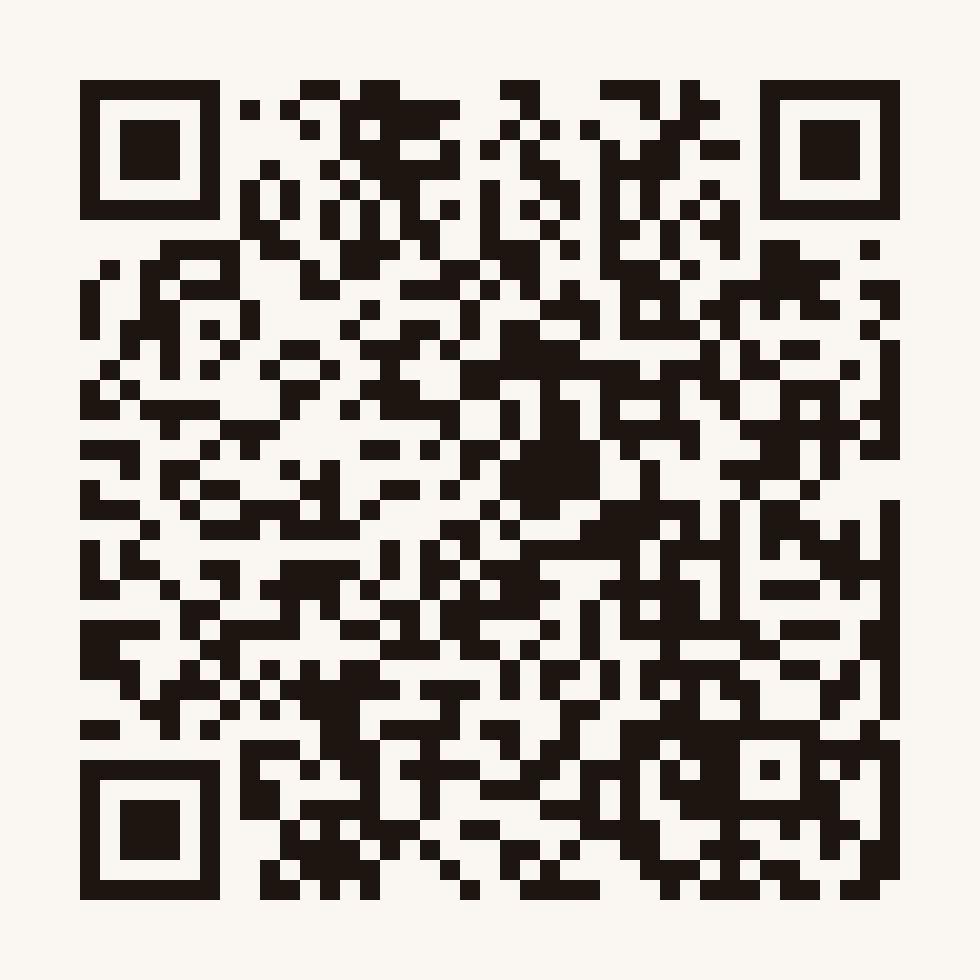
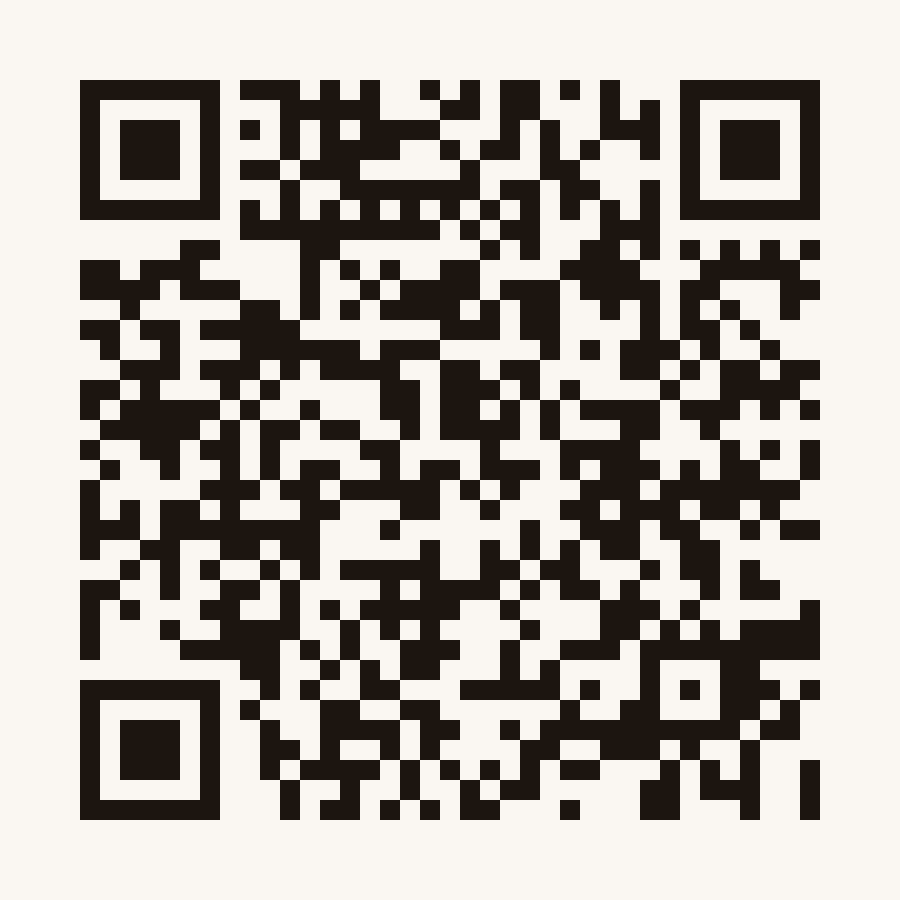
fix: standardize partner qr destinations

diff --git a/scripts/generate-qr.py b/scripts/generate-qr.py
@@ -29,7 +29,7 @@ import qrcode
 from qrcode.constants import ERROR_CORRECT_H
 
 SLUG_RE = re.compile(r"^[a-z0-9][a-z0-9-]{2,40}$")
-BASE_URL = "https://localis.guide/?p={slug}"
+BASE_URL = "https://localis.guide/p/{slug}"
 INK = "#1C1510"
 CREAM = "#FAF7F2"
 OUT_DIR = Path(__file__).resolve().parent.parent / "marketing" / "qr-codes"
@@ -40,6 +40,7 @@ def main() -> int:
     ap.add_argument("slug", help="Partner slug, e.g. 'london-bar'")
     ap.add_argument("--size", type=int, default=20, help="Box pixel size (default 20 → ~900px image)")
     ap.add_argument("--border", type=int, default=4, help="Quiet zone modules (default 4)")
+    ap.add_argument("--format", choices=("png", "svg"), default="png", help="Output format (default png)")
     args = ap.parse_args()
 
     slug = args.slug.strip().lower()
@@ -51,12 +52,20 @@ def main() -> int:
     qr = qrcode.QRCode(error_correction=ERROR_CORRECT_H, box_size=args.size, border=args.border)
     qr.add_data(url)
     qr.make(fit=True)
-    img = qr.make_image(fill_color=INK, back_color=CREAM)
+    if args.format == "svg":
+        from qrcode.image.svg import SvgPathImage
+
+        img = qr.make_image(image_factory=SvgPathImage, fill_color=INK, back_color=CREAM)
+    else:
+        img = qr.make_image(fill_color=INK, back_color=CREAM)
 
     OUT_DIR.mkdir(parents=True, exist_ok=True)
-    out = OUT_DIR / f"{slug}.png"
+    out = OUT_DIR / f"{slug}.{args.format}"
     img.save(out)
-    print(f"Saved: {out} ({img.size[0]}x{img.size[1]} px) -> {url}")
+    if hasattr(img, "size"):
+        print(f"Saved: {out} ({img.size[0]}x{img.size[1]} px) -> {url}")
+    else:
+        print(f"Saved: {out} ({args.format}) -> {url}")
     return 0
 
 

diff --git a/marketing/partners-registry.md b/marketing/partners-registry.md
@@ -1,11 +1,11 @@
-# Localis · Partner QR Registry
+# Localis - Partner QR Registry
 
-Master ledger dei partner referral. Aggiornare manualmente. Numeri da GA4 (custom dimension `partner_id`) + Stripe (metadata `partner_id`).
+Master ledger dei partner referral. Aggiornare manualmente. Numeri da GA4/PostHog con parametro `partner_id` + Stripe con metadata `partner_id`.
 
-**Pattern URL QR:** `https://localis.guide/?p=<slug>`
-**Vincoli slug:** lowercase, 3-41 caratteri, regex `[a-z0-9][a-z0-9-]{2,40}` — no underscore, no spazi, no maiuscole.
-**Cookie referral:** 30 giorni (chi clicca oggi, attribuito anche se acquista fra 3 settimane).
-**Revenue share:** 25% del netto su ogni acquisto attribuito (impostato in `src/pages/api/checkout.ts`).
+**Pattern URL QR:** `https://localis.guide/p/<slug>`
+**Vincoli slug:** lowercase, 3-41 caratteri, regex `[a-z0-9][a-z0-9-]{2,40}`; no underscore, no spazi, no maiuscole.
+**Cookie referral:** 30 giorni.
+**Revenue share:** 25% del netto su ogni acquisto attribuito, impostato in `src/pages/api/checkout.ts`.
 
 ---
 
@@ -13,8 +13,11 @@ Master ledger dei partner referral. Aggiornare manualmente. Numeri da GA4 (custo
 
 | # | Slug | Nome | Indirizzo | Tipo | Copie QR | Contatto | Consegnato | File | Note |
 |---|---|---|---|---|---|---|---|---|---|
-| 001 | `london-bar` | London Bar | Via Principe Amedeo, 148, Bari | Bar | 7 (1 bancone + 6 tavolini) | — | 2026-05-21 | [PNG](qr-codes/london-bar.png) | Stessa grafica QR replicata 7 volte. Stampa 8×8 cm consigliata. |
-| 002 | `paesaggi` | Paesaggi | Centro Bari (fiorista) | Negozio · vetrina | 1 gigante (vetrina) | — | 2026-05-21 | [PNG](qr-codes/paesaggi.png) · [SVG](qr-codes/paesaggi.svg) | Vetrina format. SVG vettoriale → stampa 50×70 / 70×100 / A1. Poster generabile via [/poster-vetrina?p=paesaggi&name=Paesaggi](https://localis.guide/poster-vetrina?p=paesaggi&name=Paesaggi). |
+| 001 | `london-bar` | London Bar | Via Principe Amedeo, 148, Bari | Bar | 7 (1 bancone + 6 tavolini) | - | 2026-05-21 | [PNG](qr-codes/london-bar.png) | Stessa grafica QR replicata 7 volte. Stampa 8x8 cm consigliata. |
+| 002 | `london-bar-bb` | London B&B | Principe152 / Le Chicche di Carola / Marchese 124, Bari | B&B | 5 camere | info@londonbarbari.it | 2026-05-22 | [PNG](qr-codes/london-bar-bb.png) | Analytics separata dal London Bar. |
+| 003 | `paesaggi` | Paesaggi | Centro Bari | Negozio / vetrina | 1 gigante | info@paesaggibari.it | 2026-05-21 | [PNG](qr-codes/paesaggi.png) / [SVG](qr-codes/paesaggi.svg) | Vetrina format. SVG vettoriale per stampa grande. |
+| 004 | `bluemarine-lido-sole` | Residence Bluemarine | Lido del Sole, Via delle Dalie 11, Rodi Garganico | Hotel/residence | 70 stanze | info@bluemarinevillage.it | 2026-05-25 | [PNG](qr-codes/bluemarine-lido-sole.png) | QR in camera / reception. |
+| 005 | `giardino-lido-sole` | Il Giardino | Lido del Sole, Rodi Garganico | Hotel/ristorante | 28 stanze | info@giardino-lidosole.it | 2026-05-25 | [PNG](qr-codes/giardino-lido-sole.png) | QR in camera / reception. |
 
 ---
 
@@ -25,31 +28,35 @@ Master ledger dei partner referral. Aggiornare manualmente. Numeri da GA4 (custo
 
 ---
 
-## Risultati (aggiornare ogni 7 giorni)
+## Risultati
 
-Compilare dopo aver verificato GA4 → Esplorazioni → custom report con dimensione `Partner ID`.
+Aggiornare ogni 7 giorni dopo aver verificato GA4/PostHog con dimensione o proprieta `partner_id`.
 
-| Partner | Periodo | Visitatori | Preview ascoltate | Checkout iniziati | Acquisti | Revenue lorda | Quota partner (25%) | CR visit→buy | Note |
+| Partner | Periodo | Visitatori | Preview ascoltate | Checkout iniziati | Acquisti | Revenue lorda | Quota partner 25% | CR visit-buy | Note |
 |---|---|---|---|---|---|---|---|---|---|
-| `london-bar` | 2026-05-21 → ... | — | — | — | — | — | — | — | Baseline da rilevare |
-| `paesaggi` | 2026-05-21 → ... | — | — | — | — | — | — | — | Vetrina centro · alto passaggio pedoni |
+| `london-bar` | 2026-05-21 -> ... | - | - | - | - | - | - | - | Baseline da rilevare |
+| `london-bar-bb` | 2026-05-22 -> ... | - | - | - | - | - | - | - | Camere B&B, separato dal bar |
+| `paesaggi` | 2026-05-21 -> ... | - | - | - | - | - | - | - | Vetrina centro, alto passaggio pedoni |
+| `bluemarine-lido-sole` | 2026-05-25 -> ... | - | - | - | - | - | - | - | Residence Gargano |
+| `giardino-lido-sole` | 2026-05-25 -> ... | - | - | - | - | - | - | - | Hotel/ristorante Gargano |
 
 ---
 
-## Onboarding checklist (per ogni nuovo partner)
+## Onboarding checklist
 
-- [ ] Slug definito (regex `[a-z0-9][a-z0-9-]{2,40}`)
-- [ ] QR generato in `marketing/qr-codes/<slug>.png` (script: vedi `scripts/generate-qr.py`)
-- [ ] Stampato (consigliato: 8×8 cm fronte cassa / vetrina / menu)
+- [ ] Slug definito, regex `[a-z0-9][a-z0-9-]{2,40}`
+- [ ] Record creato in `src/content/partners/<slug>.mdx`
+- [ ] QR generato in `marketing/qr-codes/<slug>.png` con `python scripts/generate-qr.py <slug>`
+- [ ] QR testato con scansione reale da telefono
+- [ ] Stampato, consigliato minimo 8x8 cm fronte cassa / vetrina / menu / camera
 - [ ] Consegnato di persona, breve pitch al gestore
-- [ ] Riga aggiunta a tabella "Live partners" qui sopra
-- [ ] (Opzionale) record creato in `src/content/partners/<slug>.mdx` se vuoi pagina dedicata `/p/<slug>`
-- [ ] (Opzionale) Stripe Connect account collegato se vuoi versare quota automaticamente (oggi tracking-only, payout manuale)
+- [ ] Riga aggiunta a "Live partners"
+- [ ] Stripe Connect account collegato solo se si vuole automatizzare il payout; altrimenti tracking e payout manuale
 
 ---
 
 ## Note operative
 
-- **GA4 attribuzione:** ogni evento (`page_view`, `preview_played`, `checkout_started`, `purchase_completed`) auto-attribuito via `partner_id`. Custom dimension da creare in Admin → Definizioni personalizzate (Event-scoped, parametro `partner_id`).
-- **Stripe attribuzione:** `partner_id` salvato in `checkout.session.metadata.partner_id` → recuperabile post-fatto via Stripe Dashboard o webhook.
-- **Cookie:** `lg_partner` 30 giorni, secondo cookie `lg_partner_ts` per timestamp. URL `?p=` ha priorità su cookie esistente.
+- **GA4/PostHog:** gli eventi principali usano `partner_id`. L'evento standard per ingresso QR su landing partner e `qr_landing_viewed`.
+- **Stripe:** `partner_id` viene salvato in `checkout.session.metadata.partner_id`.
+- **Cookie:** `lg_partner` dura 30 giorni. `lg_partner_ts` e salvato in localStorage per timestamp. La landing `/p/<slug>` ha priorita su cookie esistente; `?p=` resta supportato per compatibilita storica.
